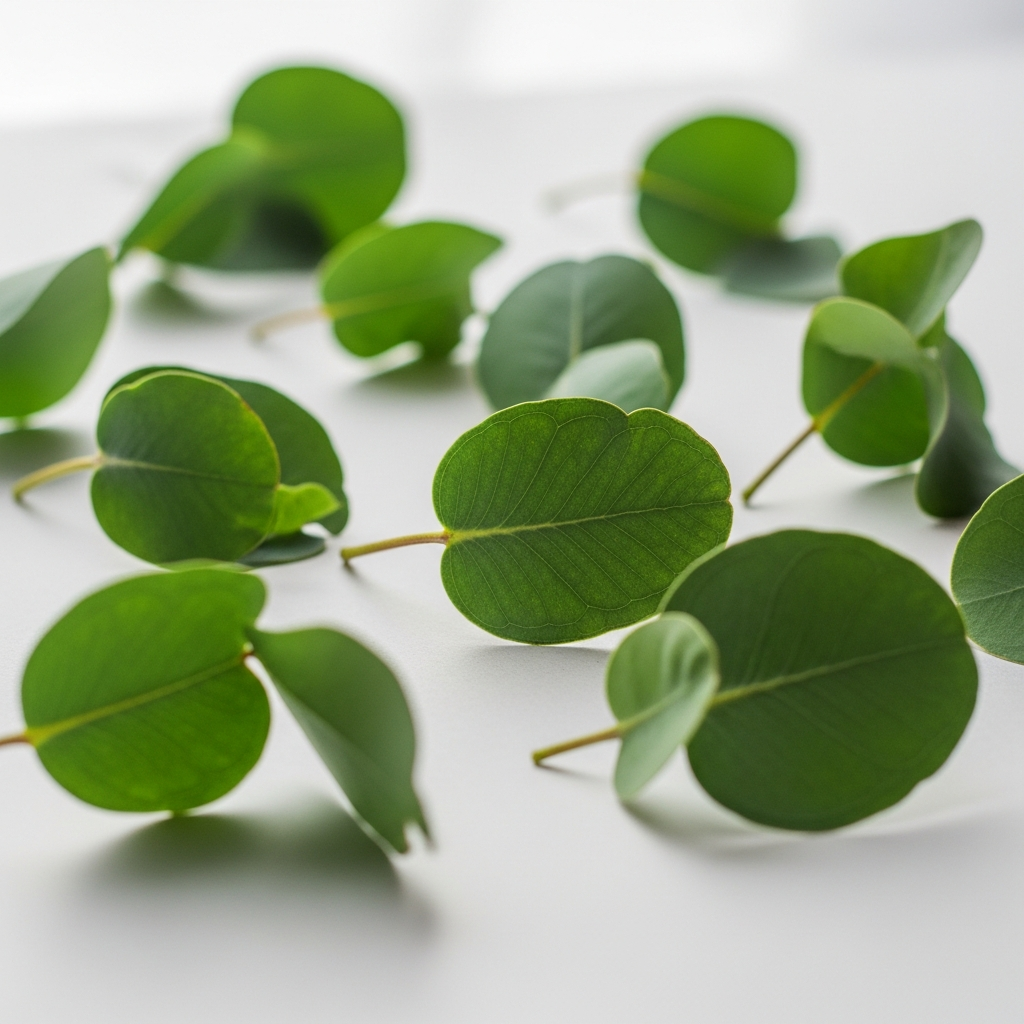
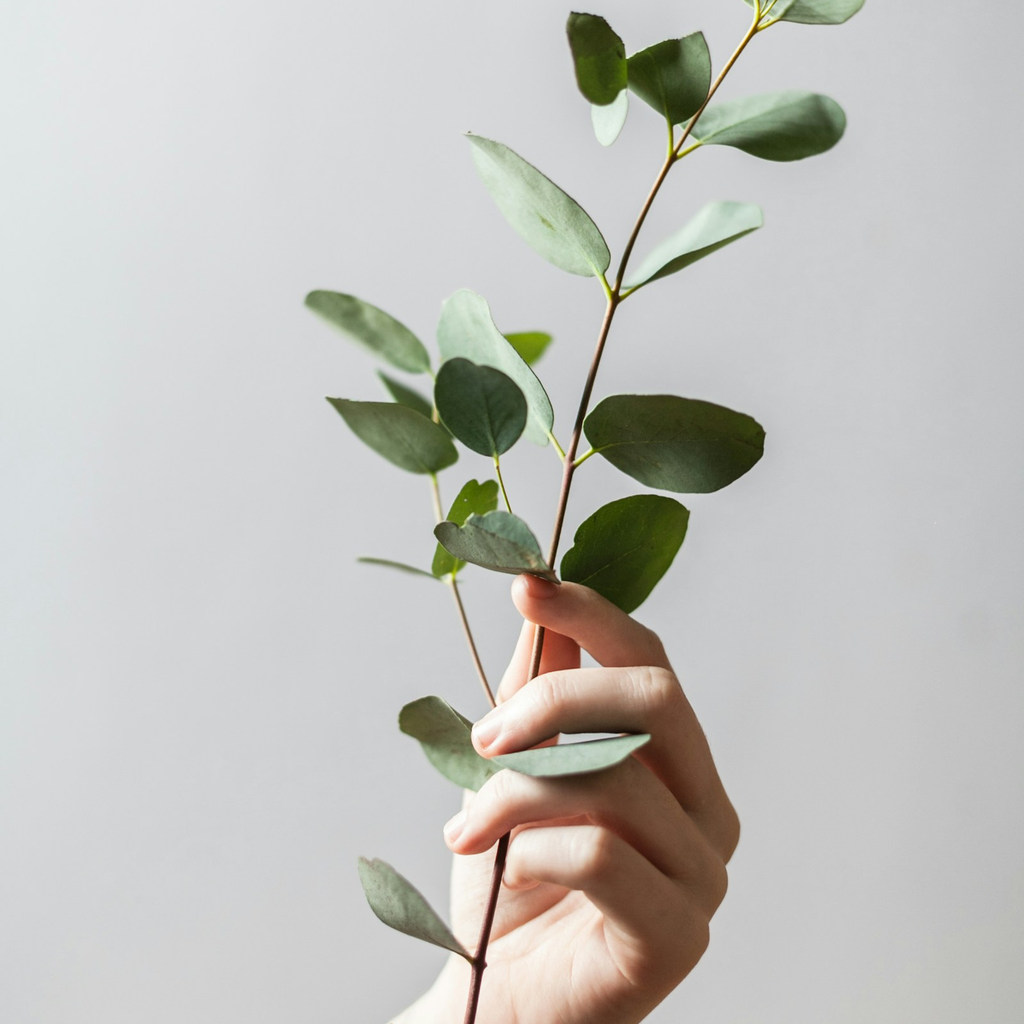
Link App Store badge to live listing; swap eucalyptus imagery
- Landing page "Download on the App Store" now points to the real
  listing (apps.apple.com/app/id6789730576) instead of the store home
- Replace eucalyptus photo (landing scent showcase) and the in-app
  scent-card image with new photography

diff --git a/client/src/pages/Landing.tsx b/client/src/pages/Landing.tsx
@@ -326,9 +326,9 @@ export default function Landing() {
                   className="h-14"
                 />
               </a>
-              <a 
-                href="https://apps.apple.com" 
-                target="_blank" 
+              <a
+                href="https://apps.apple.com/app/id6789730576"
+                target="_blank"
                 rel="noopener noreferrer"
                 className="transition-transform hover:scale-105"
                 data-testid="link-app-store"
